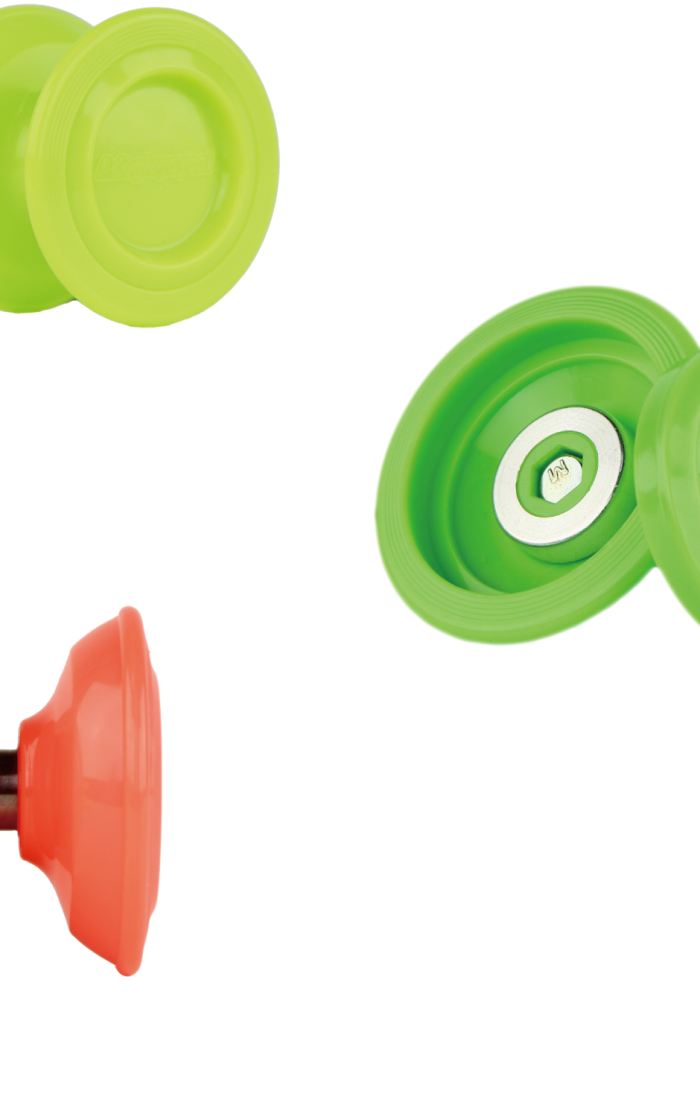
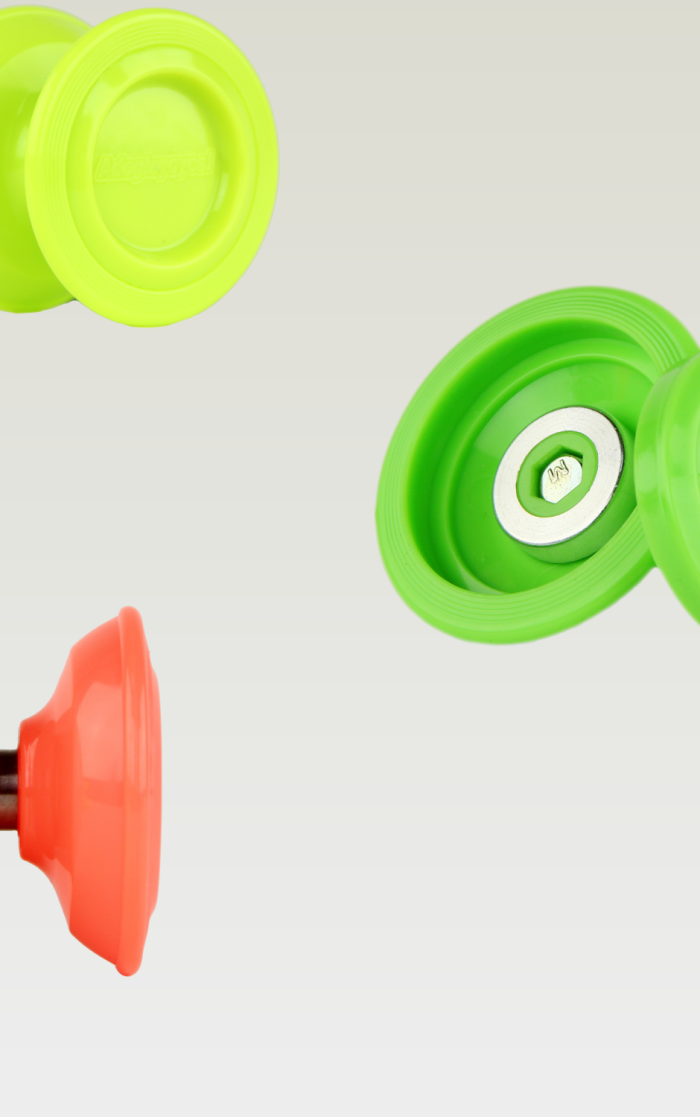
- reupload asteroid background - add new picture of asteroid

diff --git a/index.html b/index.html
@@ -27,12 +27,12 @@
 
 {% block content %}    
 <!-- Main hero unit for a primary marketing message or call to action -->
-<div class="hero-unit" style="background-image: url(image/roc/cover.png)">
-  <h1>Roc全新推出</h1>
-      <p>
-        挑戰全新溜溜球玩法<br />
-        全身雪白的大鵬將要展翅高飛<br />
-      </p>
+<div class="hero-unit" style="background-image: url(image/asteroid/cover.png)">
+  <h1>Asteroid降臨地球</h1>
+  <p>
+    裕和商店2012年最新作品全球同步上市<br />
+    全新手感等著你來嘗試<br />
+  </p>
   <p><a class="btn primary large" href="/product">詳細訊息 &raquo;</a></p>
 </div>
 

diff --git a/product.html b/product.html
@@ -179,7 +179,7 @@
           <dd>Silicone (thickness 1 mm)</dd>
         </dl>
         
-        <button data-controls-modal="modal_asteroid" data-backdrop="true" data-keyboard="true" class="btn primary" onclick="add_gallery('asteroid', 15);">更多圖片 &raquo;</button> 
+        <button data-controls-modal="modal_asteroid" data-backdrop="true" data-keyboard="true" class="btn primary" onclick="add_gallery('asteroid', 16);">更多圖片 &raquo;</button> 
       </div>
       
       <div class="span12" style="background-image: url(image/asteroid/feature/all.png); height: 1100;">
